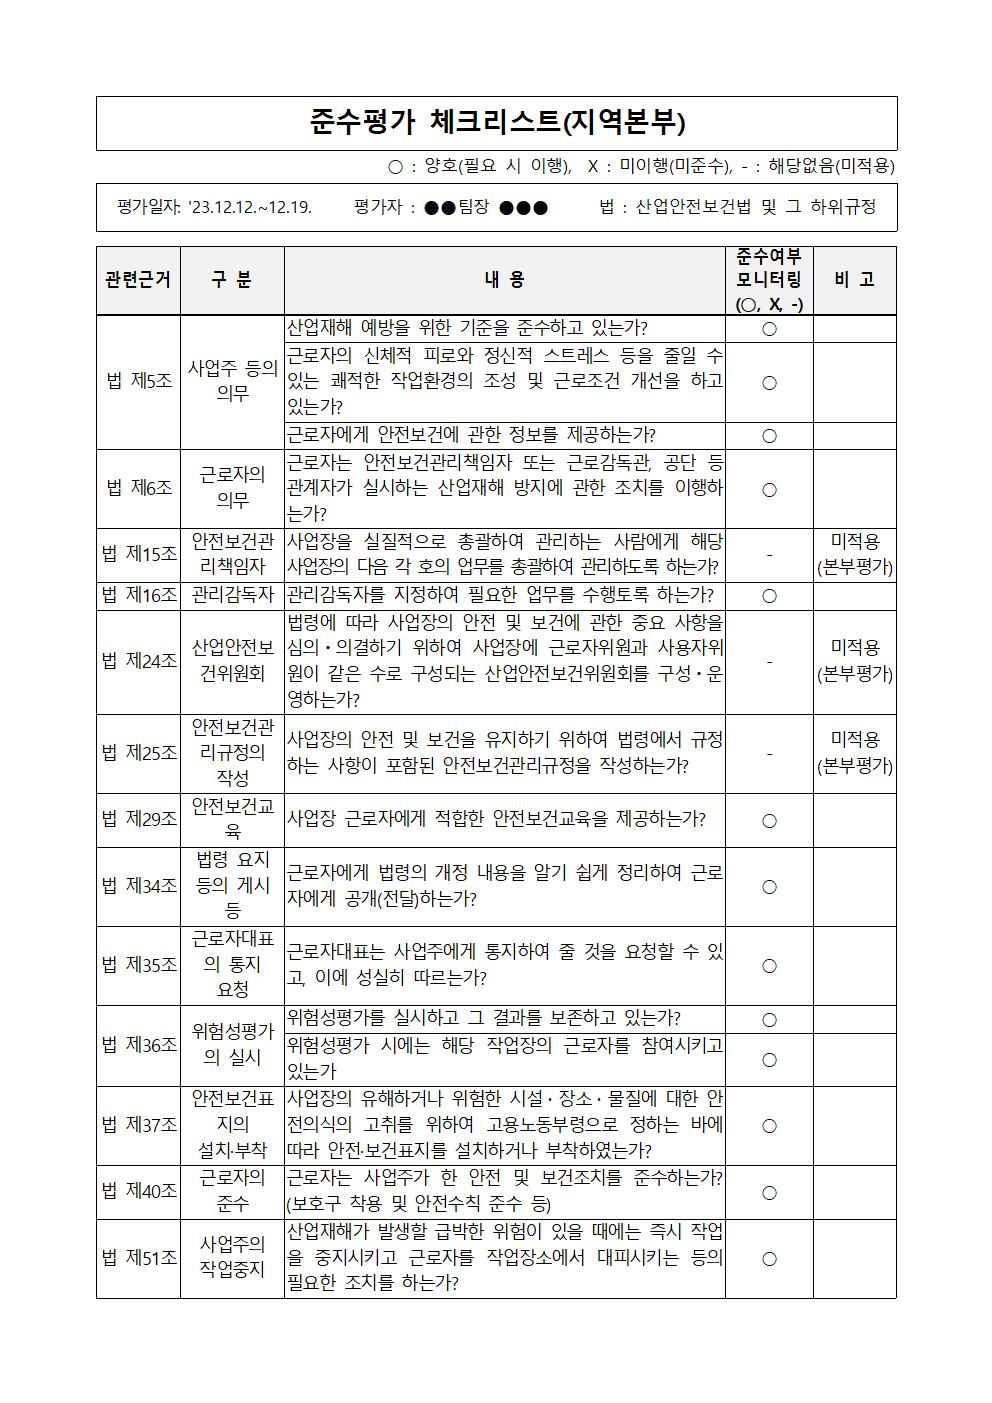
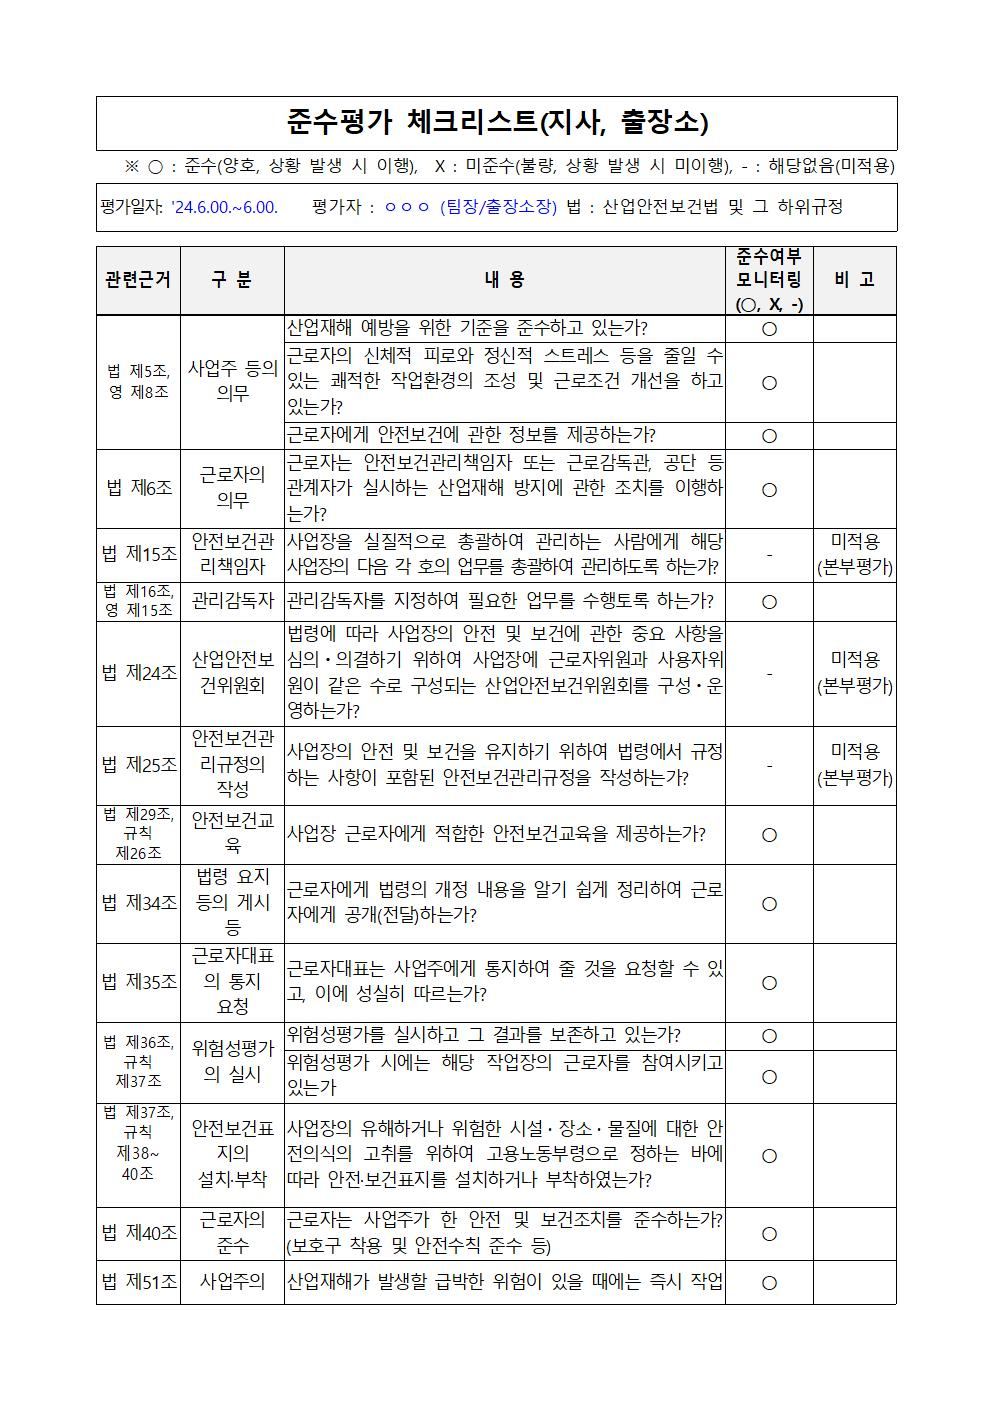
'24년 상반기 준수평가 업데이트
'24년 상반기 준수평가 업데이트

diff --git a/2.9. 준수평가.html b/2.9. 준수평가.html
@@ -63,7 +63,11 @@
         <div><div class="div_orange"><strong>2</strong></div><button type="button" class="button"><strong>자율 안전보건경영시스템</strong></button></div>
       </br>
         <div><button class="button2"><strong>&nbsp;&nbsp;9. 준수평가</strong></button></div>
-      </br> 
+      </br>
+      <h1 class="text">* 도급사업, MSDS 등 미해당 항목이 있을 시<P> 동그라미(O) 또는 해당없음(-) 모두 가능합니다.<P>단, 미해당이 확실한 경우만 해당없음(-) 처리하고<P>그렇지 않은 경우 동그라미(O) 처리를 권고합니다.
+      </br></br></br>** 비고란은 미준수 또는 미적용 등<P>특이사항이 있는 경우만 작성합니다.
+      </br></br></br>*** 중대재해 등 해당상황이 없었던 경우, 동그라미(O)가<P>'상황 발생 시 이행'의 의미를 포함하기 때문에<P>해당없음(-)이 아니라 O 표시하시면 됩니다.
+      </h1>
         <div><img src="2.9.(1).jpg" width="385px";></div>
         <div><img src="2.9.(2).jpg" width="385px";></div>
         <div><img src="2.9.(3).jpg" width="385px";></div>
